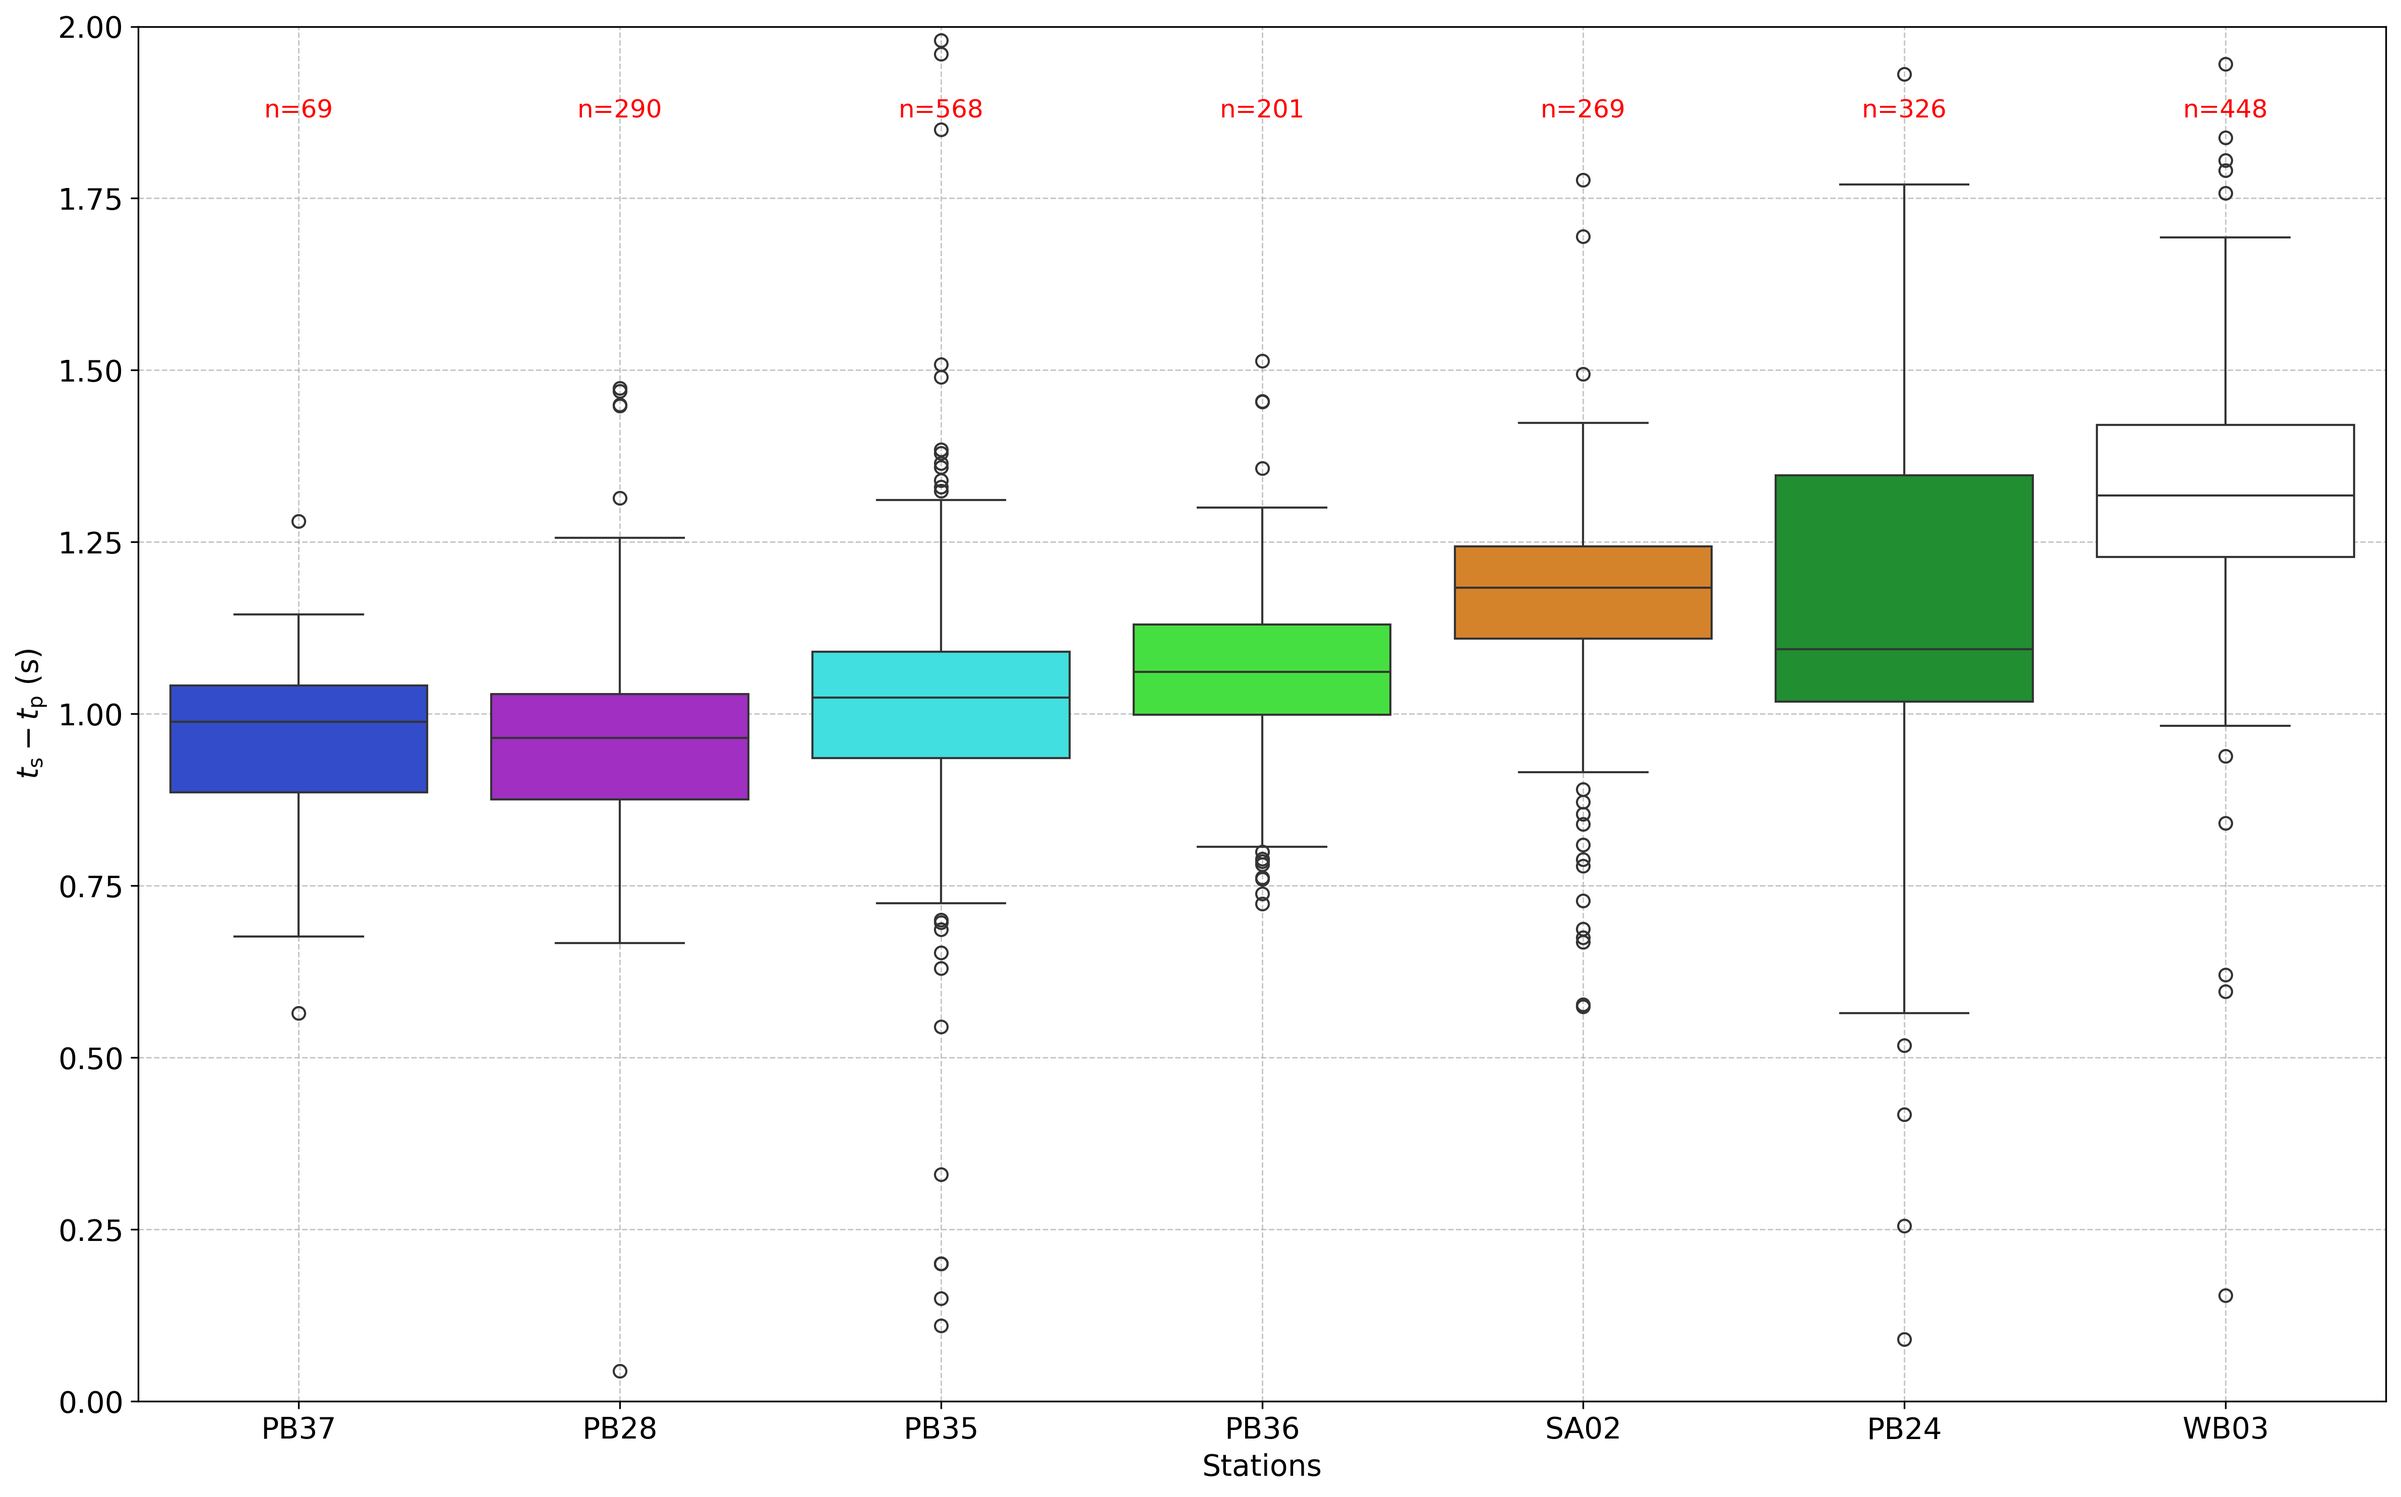
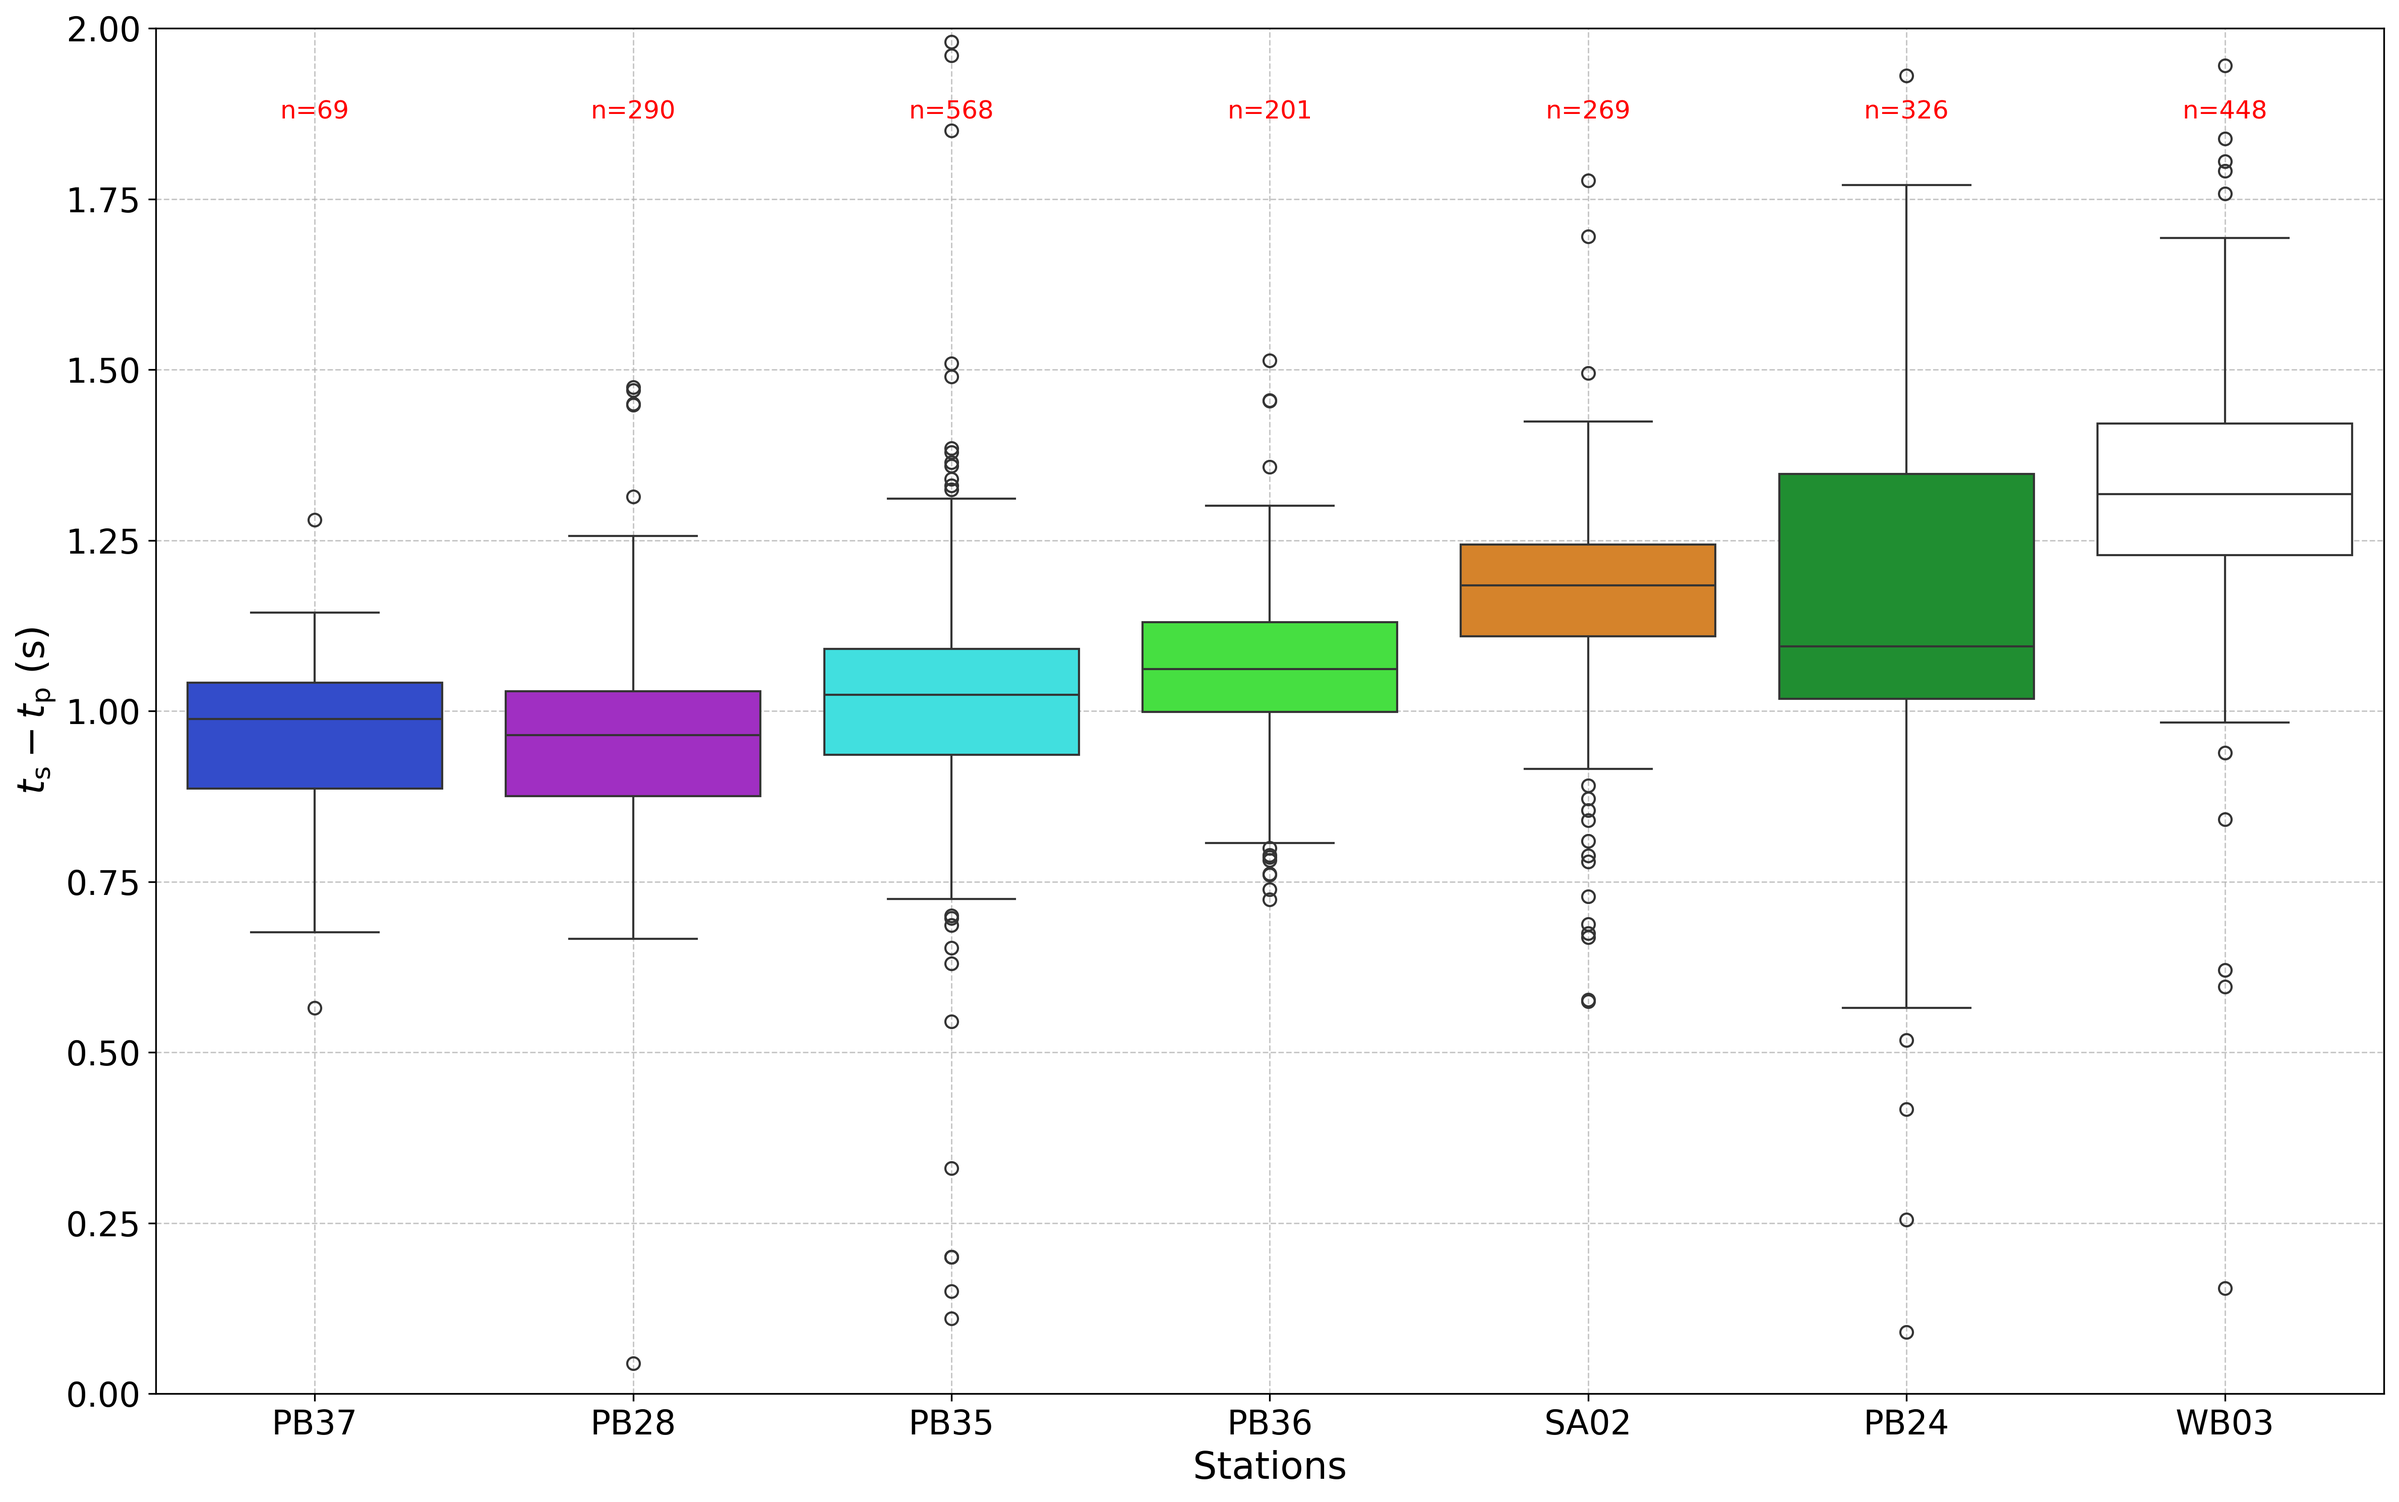
simple plots

diff --git a/02032024/project/sp/utils.py b/02032024/project/sp/utils.py
@@ -134,16 +134,16 @@ def plot_times_by_station(data,title=None,show: bool = True,
         title = r'$t_{\mathrm{s}} - t_{\mathrm{p}}$' +f' Analysis\n{title}'
         ax.set_title(title,
                         fontdict={"size":16})
-    ax.set_xlabel('Stations',fontdict={"size":14})
-    ax.set_ylabel(r'$t_{\mathrm{s}} - t_{\mathrm{p}}$ (s)',fontdict={"size":14})
+    ax.set_xlabel('Stations',fontdict={"size":18})
+    ax.set_ylabel(r'$t_{\mathrm{s}} - t_{\mathrm{p}}$ (s)',fontdict={"size":18})
     
     if ylim is not None:
         ax.set_ylim(*ylim)
     
     ax.grid(True, linestyle='--', linewidth=0.7, alpha=0.7)
     
-    plt.xticks(fontsize=14)  # Rotate x labels for readability
-    plt.yticks(fontsize=14)  # Rotate x labels for readability
+    plt.xticks(fontsize=16)  # Rotate x labels for readability
+    plt.yticks(fontsize=16)  # Rotate x labels for readability
     plt.tight_layout()  # Adjust layout to avoid cutting off labels
         
     if savefig is not None:
